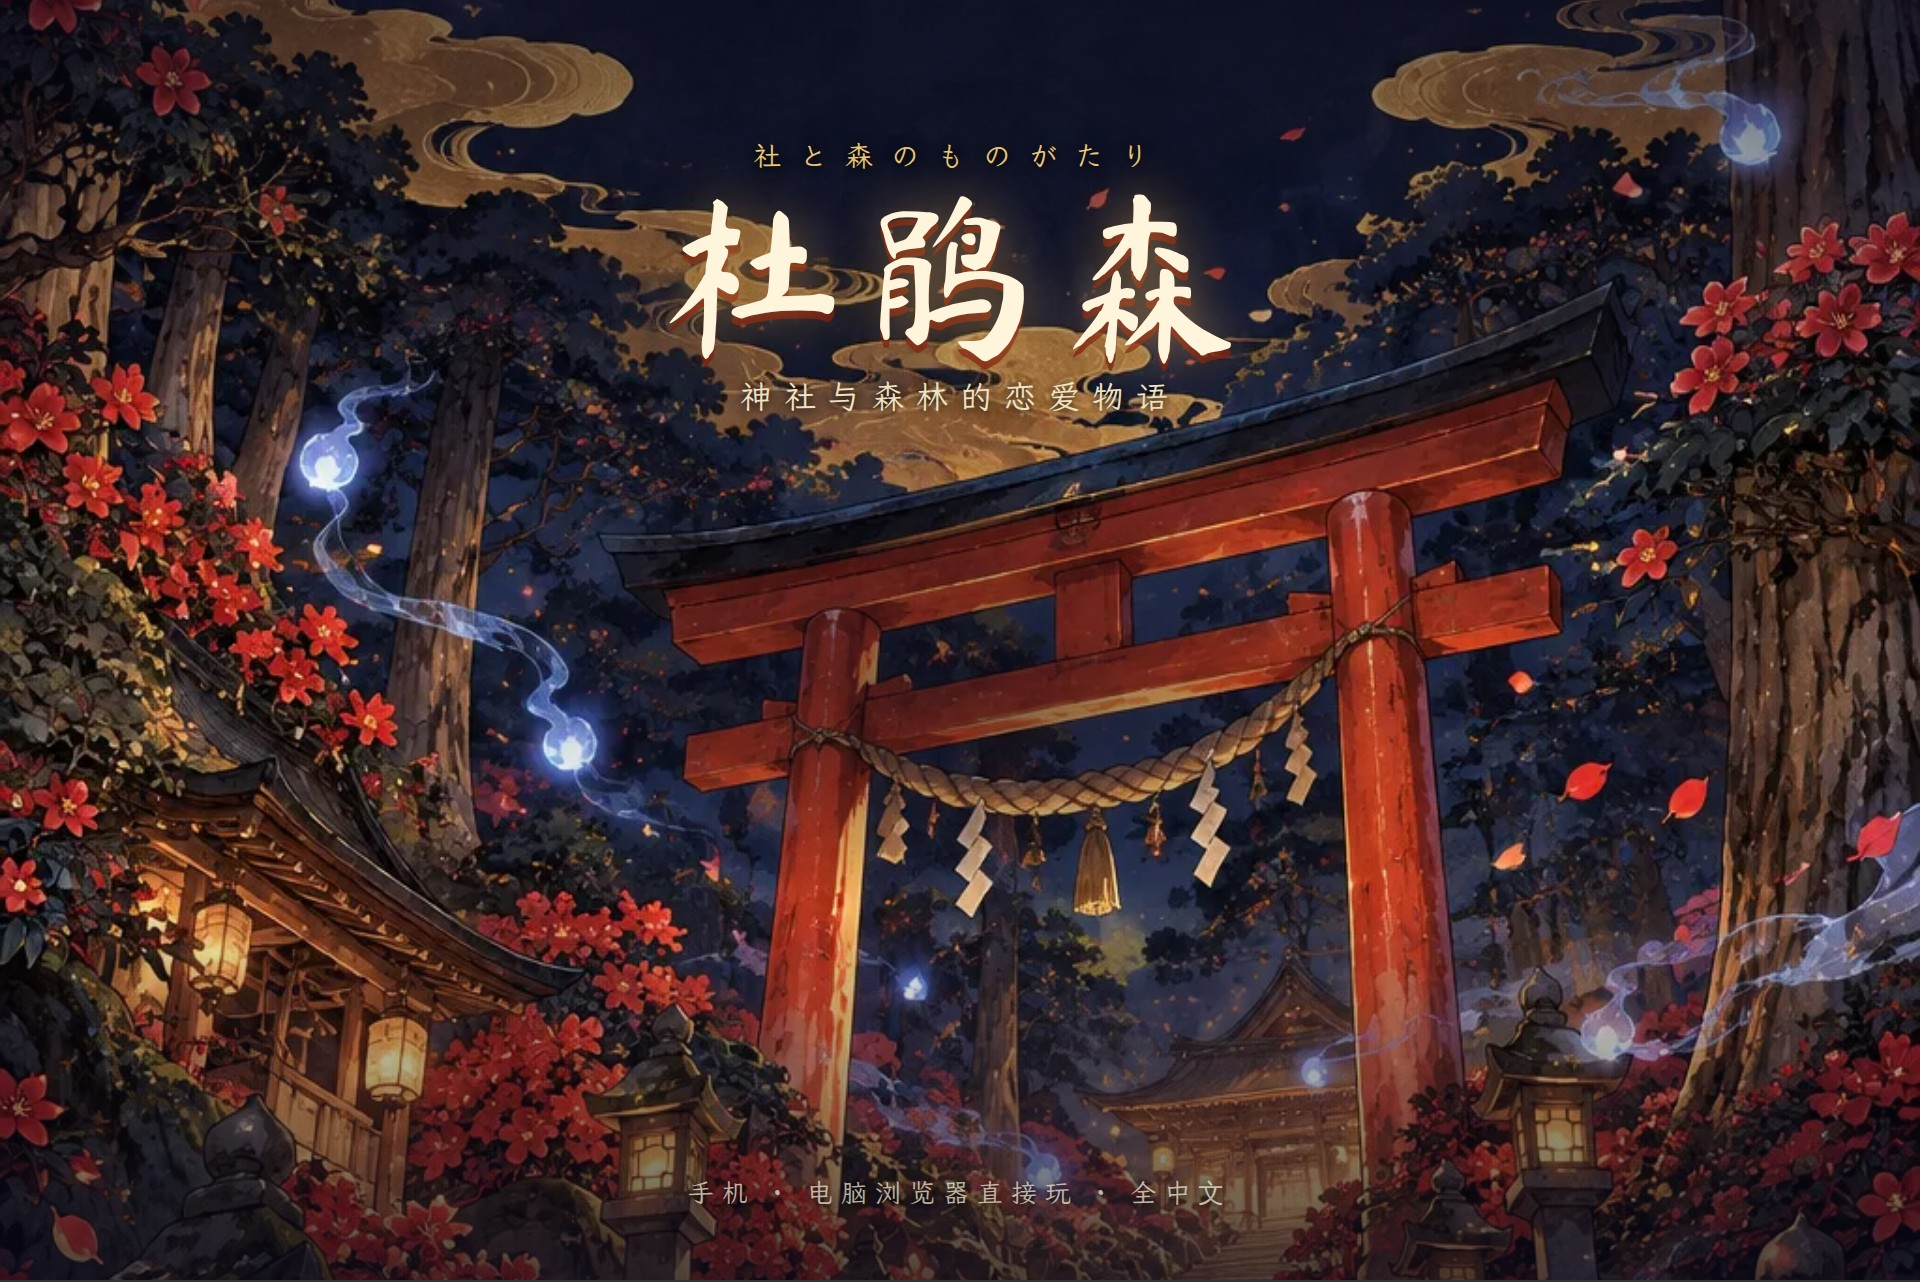
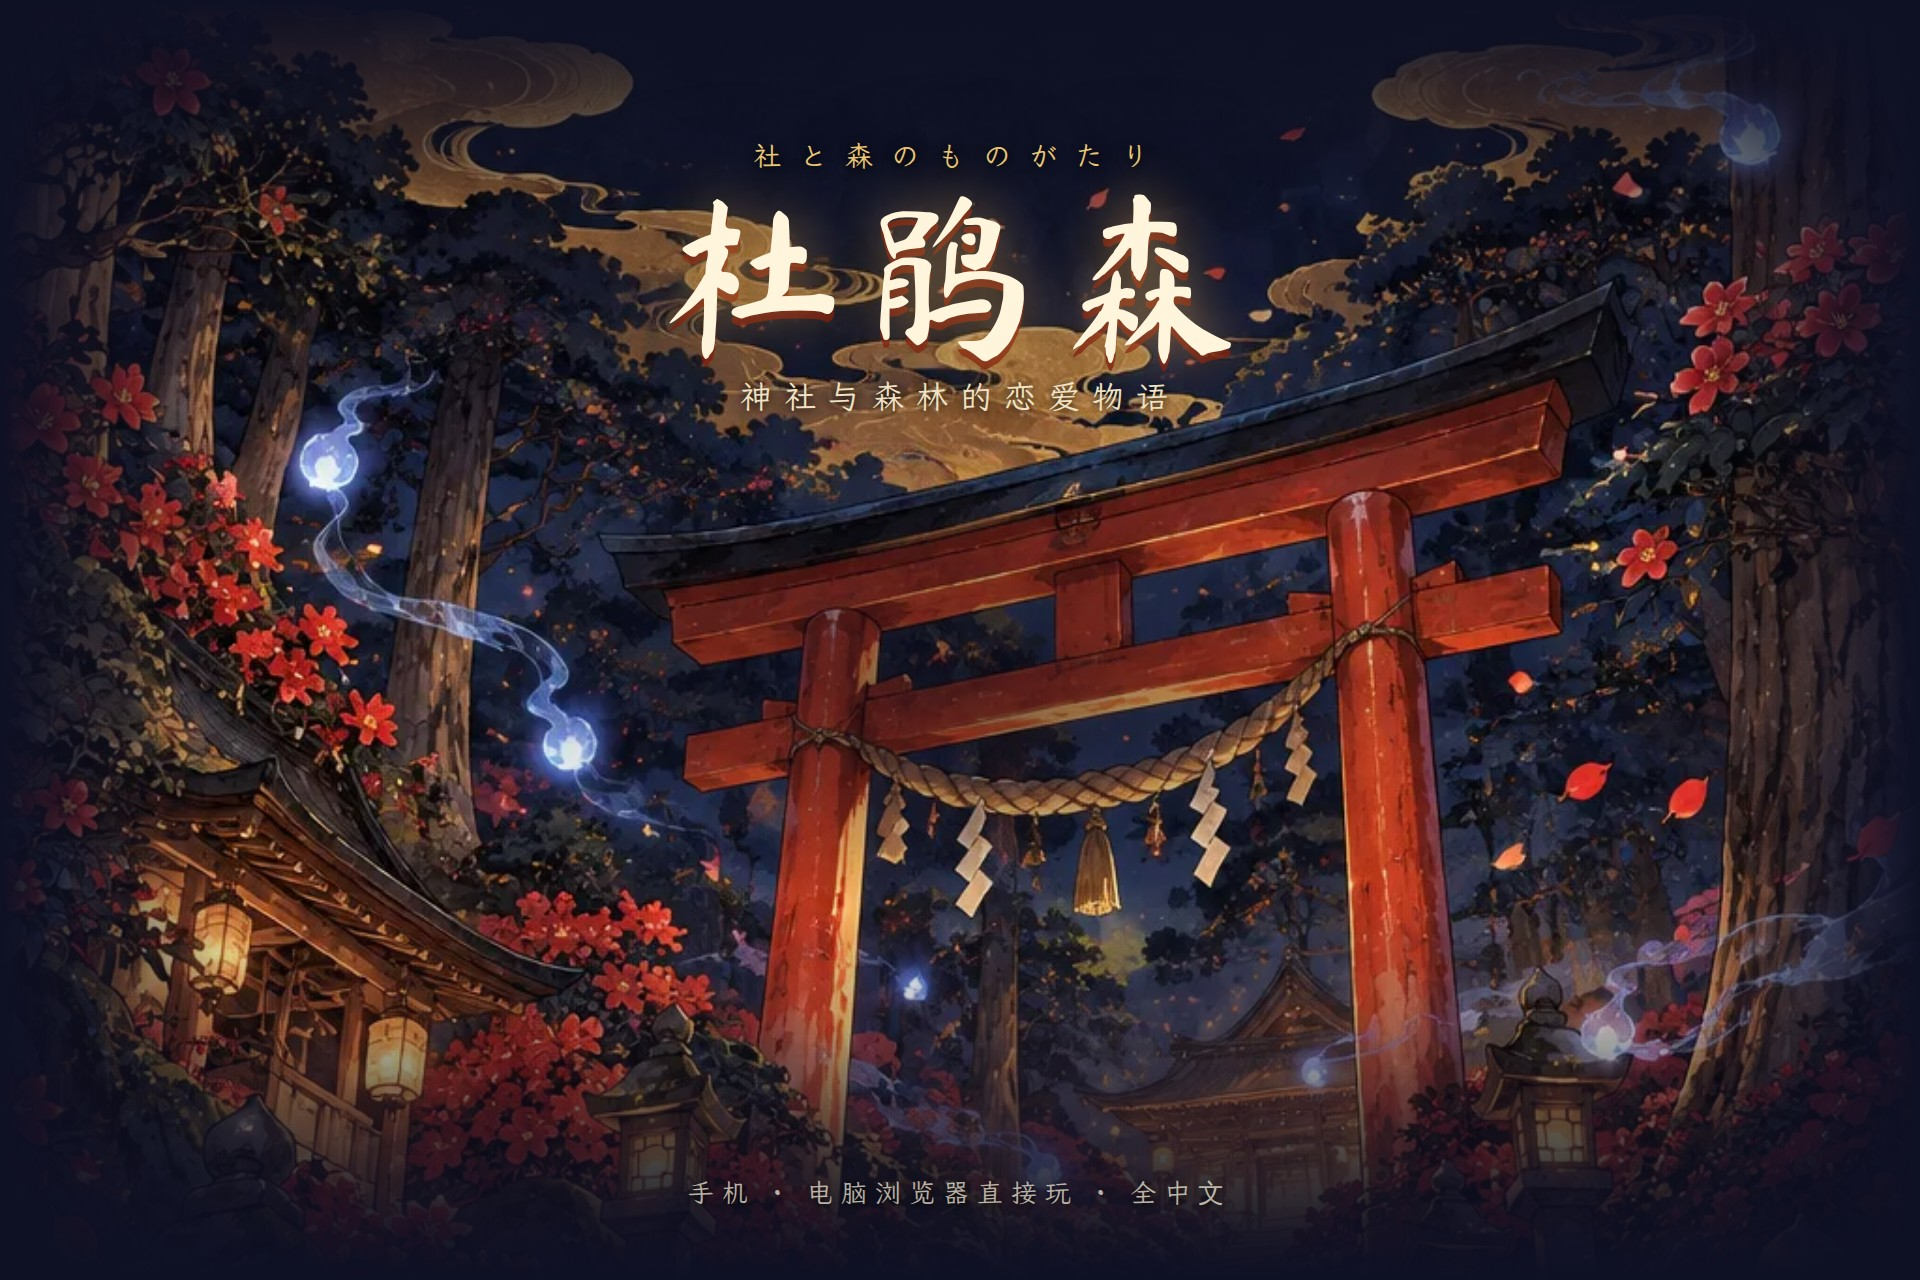
itch embed bg: edges fade to the page colour so it tiles without a seam
Claude-Session: https://claude.ai/code/session_01DcwkXSo9JkRfa2F8wKEkN6

diff --git a/itch/art.html b/itch/art.html
@@ -64,6 +64,9 @@ body { background: #333; font-family: 'WK', serif; color: var(--ink); padding: 2
 /* embed background 960x640: key art behind the Run game button */
 .embedbg { position: relative; width: 960px; height: 640px; overflow: hidden; background: var(--bg) url('../assets/ui-title.webp') center 52% / cover; }
 .embedbg::before { content: ''; position: absolute; inset: 0; background: radial-gradient(ellipse 30% 22% at 50% 54%, rgba(8,8,24,0.55), transparent 80%), linear-gradient(rgba(8,8,24,0.55), transparent 38%, transparent 70%, rgba(8,8,24,0.7)); }
+.embedbg::after { content: ''; position: absolute; inset: 0; pointer-events: none;
+  background: linear-gradient(var(--bg), transparent 16%, transparent 80%, var(--bg)), linear-gradient(90deg, var(--bg), transparent 12%, transparent 88%, var(--bg)); } /* edges fade to the page colour so tiling/stretching has no seam */
+.embedbg .t, .embedbg .hint { z-index: 1; }
 .embedbg .t { position: absolute; left: 0; right: 0; top: 70px; text-align: center; }
 .embedbg .jp { font-size: 14px; letter-spacing: 9px; color: var(--gold); text-shadow: 0 1px 6px #000; }
 .embedbg .main { font-family: 'Brush'; font-size: 92px; line-height: 1.1; color: #fff4dc; letter-spacing: 8px; text-shadow: 0 0 26px rgba(255,190,90,0.6), 0 4px 0 rgba(120,20,10,0.75), 0 0 60px rgba(0,0,0,0.7); }
